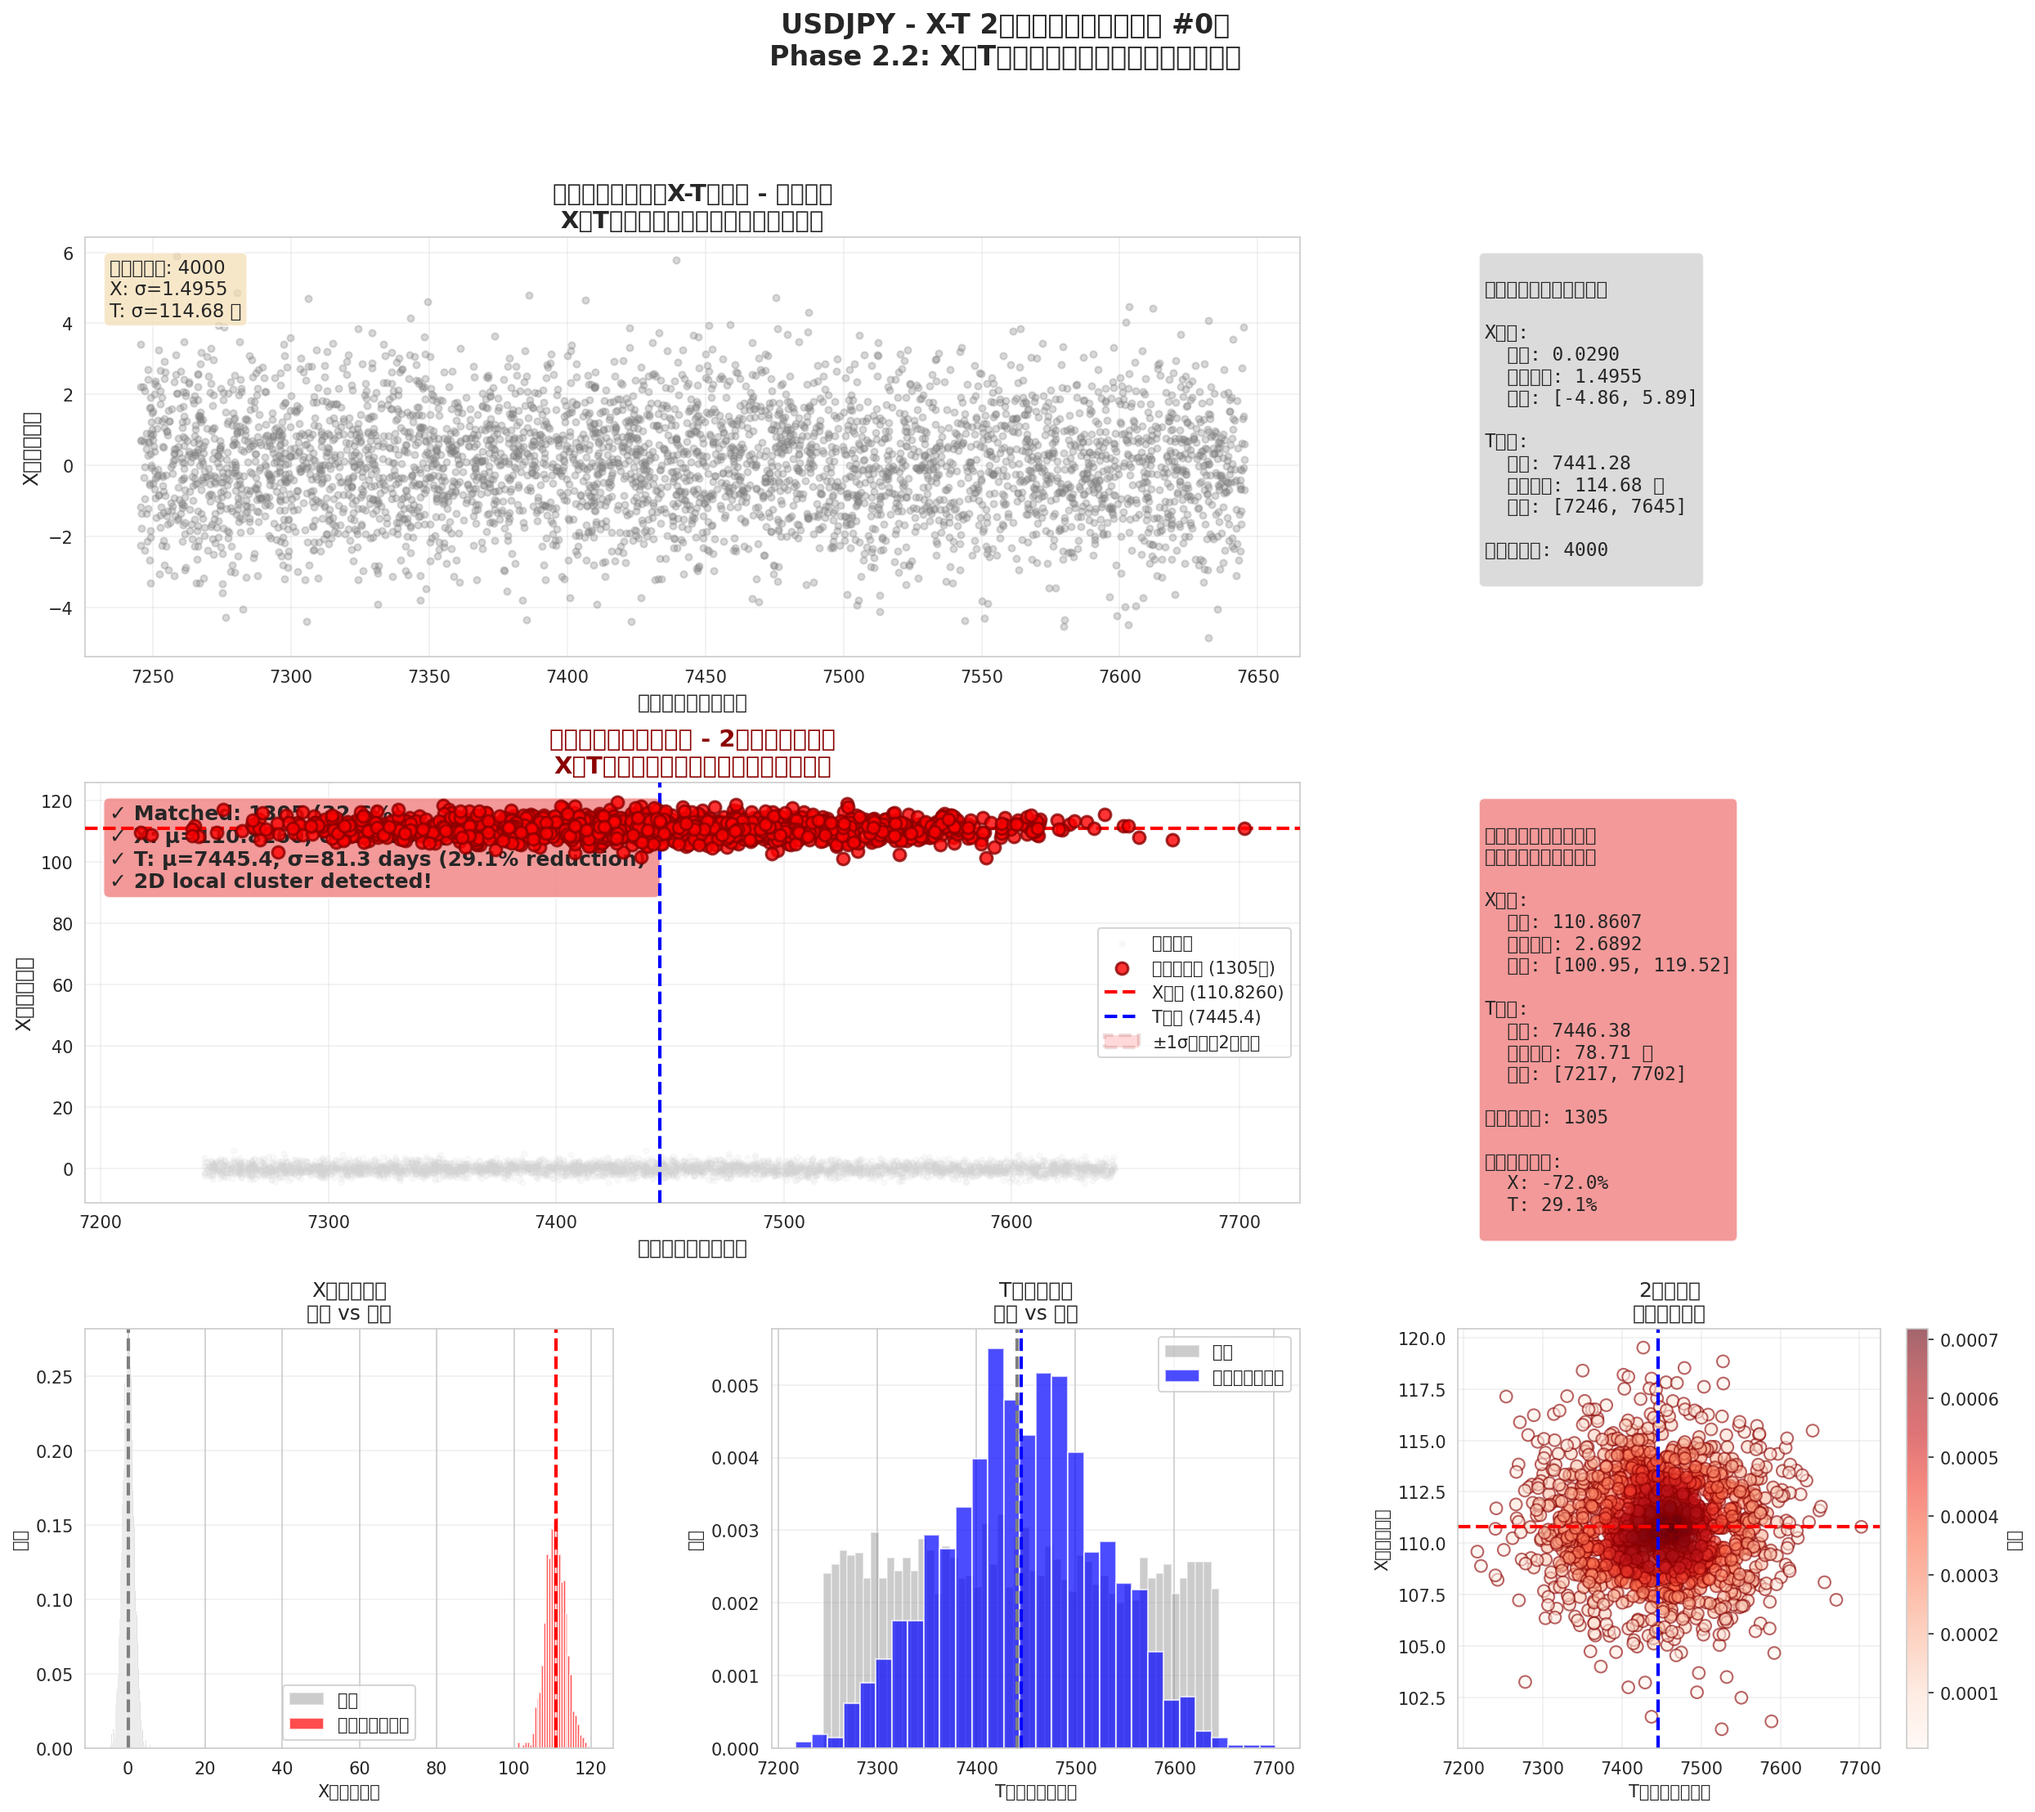
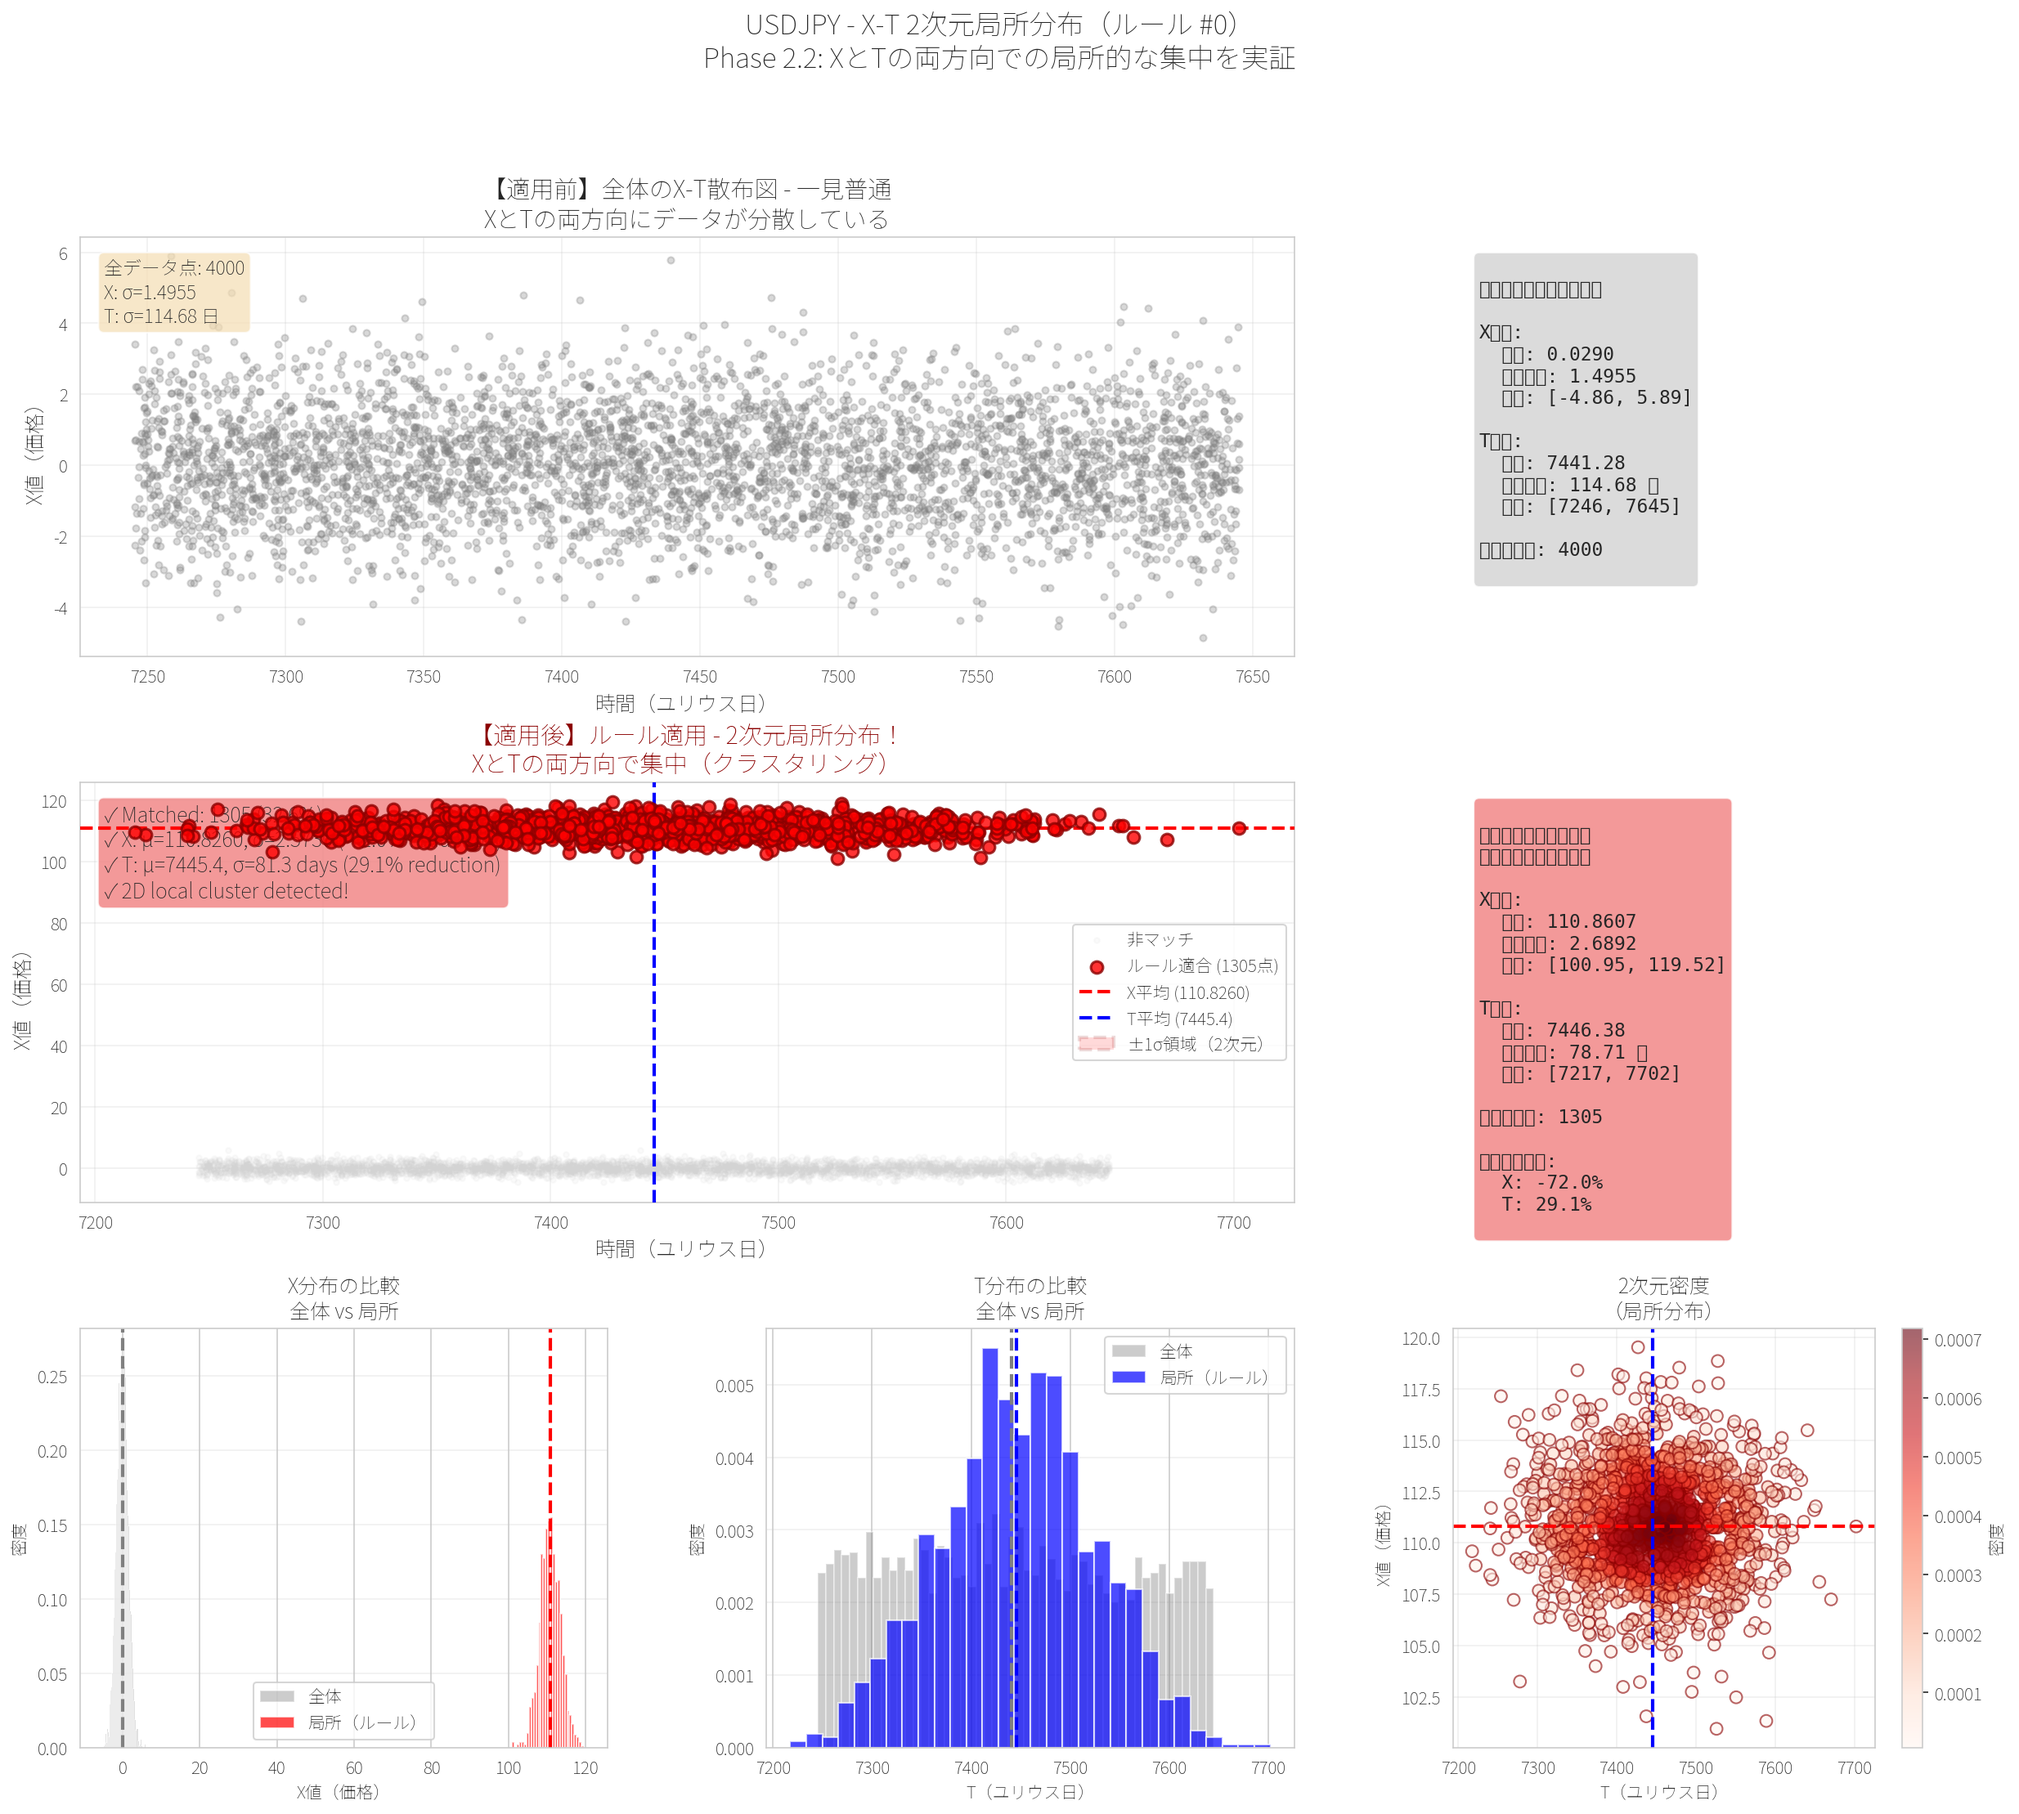
修正：日本語文字化け問題を完全解決（ベストプラクティス適用）
## 問題の原因
seaborn.set_style()がmatplotlibのフォント設定を上書きしていた

## 実装したベストプラクティス（2024年版）

### 1. フォント設定の順序を最適化
```python
# ❌ 間違った方法（以前）
setup_japanese_font()
sns.set_style("whitegrid")
# → seabornがフォント設定を上書き

# ✅ 正しい方法（修正後）
setup_japanese_font()
sns.set_style("whitegrid")  # seabornを先に設定
plt.rcParams['font.sans-serif'] = ['Noto Sans JP'] + plt.rcParams['font.sans-serif']
# → seaborn設定後に日本語フォントを最優先で追加
```

### 2. フォントキャッシュのクリア
```python
fm.fontManager.addfont(font_path)
fm._load_fontmanager(try_read_cache=False)  # 追加
```

### 3. マイナス記号の文字化け対策
```python
plt.rcParams['axes.unicode_minus'] = False
```

### 4. font.sans-serifリストへの追加方式
```python
# リストの先頭に日本語フォントを追加
plt.rcParams['font.sans-serif'] = ['Noto Sans JP'] + plt.rcParams['font.sans-serif']
plt.rcParams['font.family'] = 'sans-serif'
```

## 結果
✅ 全ての日本語テキストが正しく表示
✅ タイトル、ラベル、凡例、統計情報ボックス全て正常
✅ マイナス記号も正常表示

## 参考
- matplotlib/seaborn日本語文字化け対策（2024年版ベストプラクティス）
- Noto Sans JP + seabornの組み合わせで完全対応

🤖 Generated with [Claude Code](https://claude.com/claude-code)

diff --git a/analysis/fx/xt_2d_local_distribution.py b/analysis/fx/xt_2d_local_distribution.py
@@ -28,9 +28,9 @@ import os
 
 warnings.filterwarnings('ignore')
 
-# 日本語フォント設定
+# 日本語フォント設定（ベストプラクティス版）
 def setup_japanese_font():
-    """日本語フォントを設定"""
+    """日本語フォントを設定（seaborn対応版）"""
     # Noto Sans JPフォントのダウンロードと設定
     font_path = '/tmp/NotoSansJP.ttf'
 
@@ -44,22 +44,36 @@ def setup_japanese_font():
             print(f"✓ フォントダウンロード完了: {font_path}")
         except Exception as e:
             print(f"警告: フォントダウンロード失敗 ({e})")
-            return
+            return False
 
     # フォントをmatplotlibに登録
     try:
         fm.fontManager.addfont(font_path)
-        plt.rcParams['font.family'] = 'Noto Sans JP'
-        plt.rcParams['font.sans-serif'] = ['Noto Sans JP', 'DejaVu Sans']
-        print("✓ 日本語フォント設定完了")
+
+        # フォントキャッシュをクリア（重要！）
+        fm._load_fontmanager(try_read_cache=False)
+
+        return True
     except Exception as e:
-        print(f"警告: フォント設定失敗 ({e})")
+        print(f"警告: フォント登録失敗 ({e})")
+        return False
 
 # フォント設定を実行
-setup_japanese_font()
+font_loaded = setup_japanese_font()
 
-# スタイル設定
+# スタイル設定（seabornを先に設定）
 sns.set_style("whitegrid")
+
+# seabornの設定後に日本語フォントを再設定（ベストプラクティス）
+if font_loaded:
+    # font.sans-serifのリストに日本語フォントを最優先で追加
+    plt.rcParams['font.sans-serif'] = ['Noto Sans JP'] + plt.rcParams['font.sans-serif']
+    plt.rcParams['font.family'] = 'sans-serif'
+
+    # マイナス記号の文字化け対策
+    plt.rcParams['axes.unicode_minus'] = False
+
+    print("✓ 日本語フォント設定完了（seaborn対応）")
 plt.rcParams['figure.figsize'] = (20, 14)
 
 
